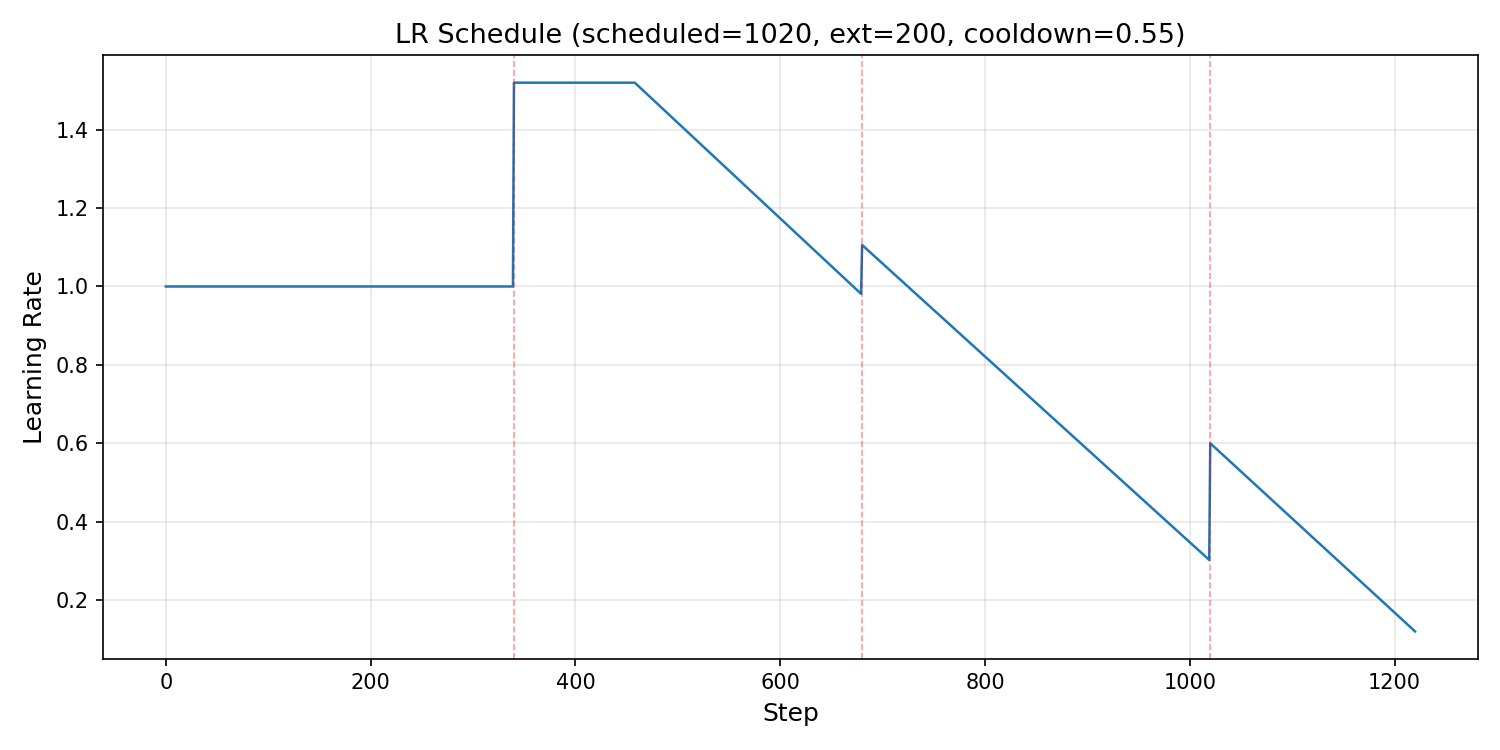
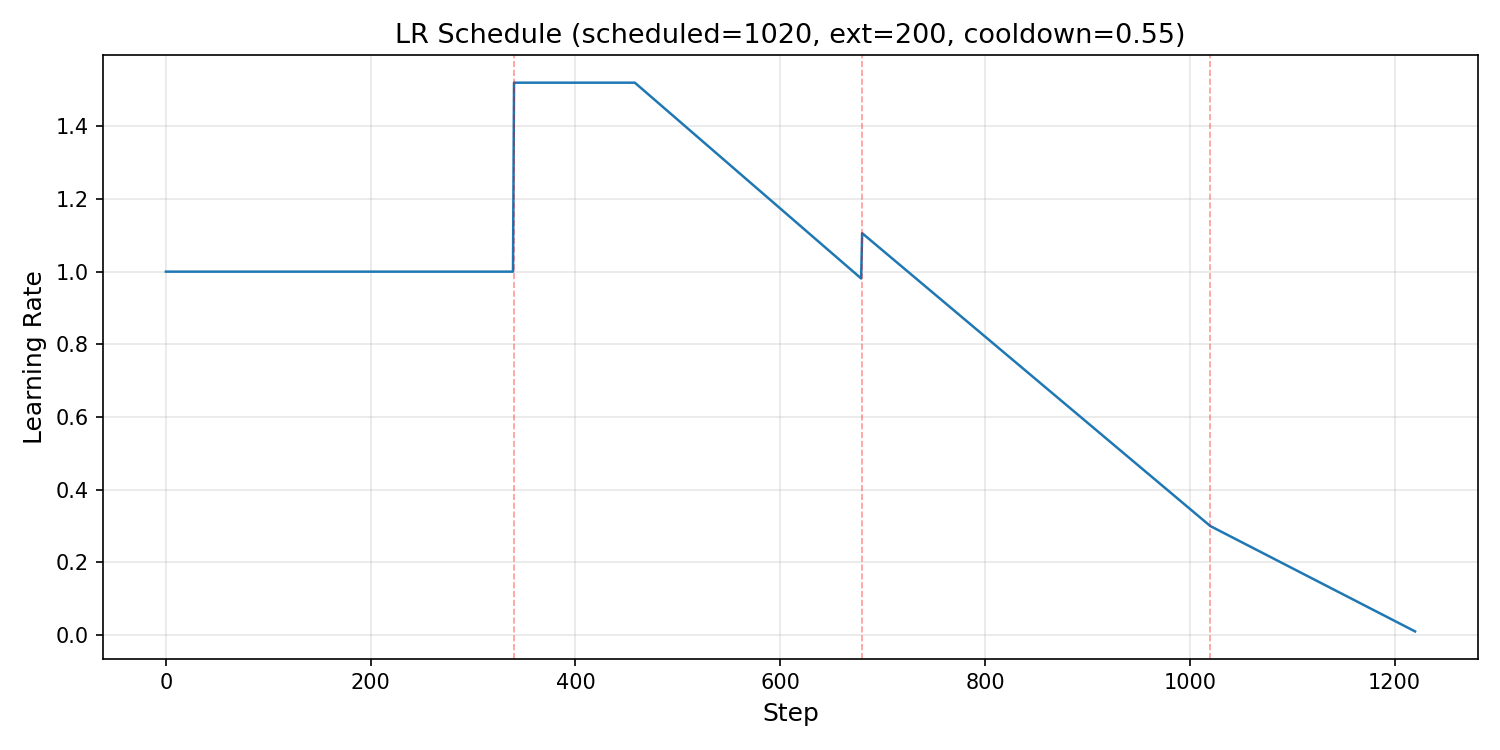
lower lr trying

diff --git a/utils/plot_logs.py b/utils/plot_logs.py
@@ -20,30 +20,33 @@ def parse_log(path):
             if not started:
                 continue
 
-            # Val line: step:N/M val_loss:V train_time:Xms step_avg:Yms
-            m = re.match(r"step:(\d+)/\d+ val_loss:([\d.]+) train_time:([\d.]+)ms", line)
+            # Val line: step:N/M val_loss:V train_time:X(ms| secs) step_avg:Yms
+            m = re.match(r"step:(\d+)/\d+ val_loss:([\d.]+) train_time:([\d.]+)\s*(ms|secs?)", line)
             if m:
                 val_steps.append(int(m.group(1)))
                 val_losses.append(float(m.group(2)))
-                val_times_s.append(float(m.group(3)) / 1000)
+                t = float(m.group(3))
+                val_times_s.append(t if m.group(4).startswith("sec") else t / 1000)
                 continue
 
-            # Train line: step:N/M, train_time:Xms, step_avg:Yms, train loss:Z,  lr:W
-            m = re.match(r"step:(\d+)/\d+, train_time:([\d.]+)ms,.* train loss:([\d.]+),\s+lr:([\d.]+)", line)
+            # Train line: step:N/M, train_time:X(ms| secs), step_avg:Yms, train loss:Z,  lr:W
+            m = re.match(r"step:(\d+)/\d+, train_time:([\d.]+)\s*(ms|secs?),.* train loss:([\d.]+),\s+lr:([\d.]+)", line)
             if m:
                 train_steps.append(int(m.group(1)))
-                train_times_s.append(float(m.group(2)) / 1000)
-                train_losses.append(float(m.group(3)))
-                train_lrs.append(float(m.group(4)))
+                t = float(m.group(2))
+                train_times_s.append(t if m.group(3).startswith("sec") else t / 1000)
+                train_losses.append(float(m.group(4)))
+                train_lrs.append(float(m.group(5)))
                 continue
 
-            # Train line without train loss: step:N/M, train_time:Xms, step_avg:Yms, lr:W
-            m = re.match(r"step:(\d+)/\d+, train_time:([\d.]+)ms,.*lr:([\d.]+)", line)
+            # Train line without train loss: step:N/M, train_time:X(ms| secs), step_avg:Yms, lr:W
+            m = re.match(r"step:(\d+)/\d+, train_time:([\d.]+)\s*(ms|secs?),.*lr:([\d.]+)", line)
             if m:
                 train_steps.append(int(m.group(1)))
-                train_times_s.append(float(m.group(2)) / 1000)
+                t = float(m.group(2))
+                train_times_s.append(t if m.group(3).startswith("sec") else t / 1000)
                 train_losses.append(None)
-                train_lrs.append(float(m.group(3)))
+                train_lrs.append(float(m.group(4)))
 
     # Detect if train_time values are actually seconds mislabeled as ms
     # Real ms values are in the thousands+ (e.g. 385962), mislabeled ones are in the hundreds (e.g. 269.3)

diff --git a/src/s07_schedule.py b/src/s07_schedule.py
@@ -128,7 +128,7 @@ TRAINING_STAGES = [
     TrainingStage(duration=1/3, train_max_seq_len=2048, batch_size=24 * 2048 * 8, window_sizes=(5, 11), lr_mul=1.73, lr_floor=0.30,  # (24/8)**0.5
                   mtp_weights_start=[1.0], mtp_weights_end=[1.0]),
     # extension stage
-    TrainingStage(train_max_seq_len=2048, batch_size=24 * 2048 * 8, window_sizes=(6, 13), lr_mul=0.6, lr_floor=0.12,
+    TrainingStage(train_max_seq_len=2048, batch_size=24 * 2048 * 8, window_sizes=(6, 13), lr_mul=0.3, lr_floor=0.01,
                   mtp_weights_start=[1.0], mtp_weights_end=[1.0]),
 ]
 

diff --git a/utils/plot_lr_schedule.py b/utils/plot_lr_schedule.py
@@ -17,7 +17,7 @@ STAGES = [
     Stage(duration=1/3, lr_mul=1.0, lr_floor=0.15),
     Stage(duration=1/3, lr_mul=1.52, lr_floor=0.15),
     Stage(duration=1/3, lr_mul=1.73, lr_floor=0.30),
-    Stage(duration=None, lr_mul=0.6, lr_floor=0.12),  # extension
+    Stage(duration=None, lr_mul=0.3, lr_floor=0.01),  # extension
 ]
 
 SCHEDULED_ITERATIONS = 1020
